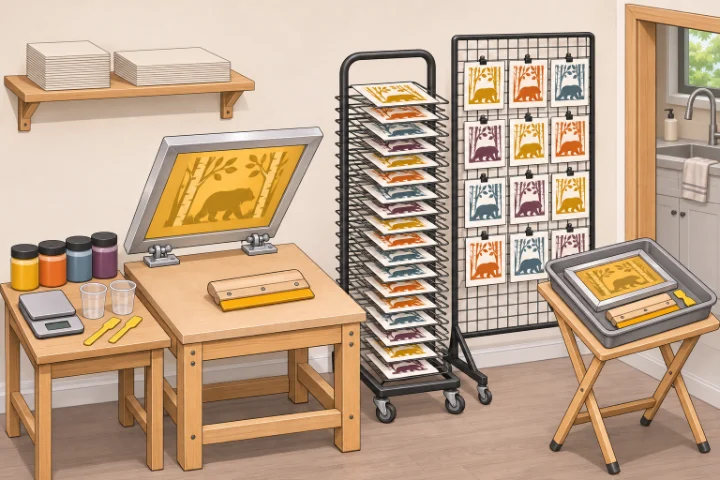
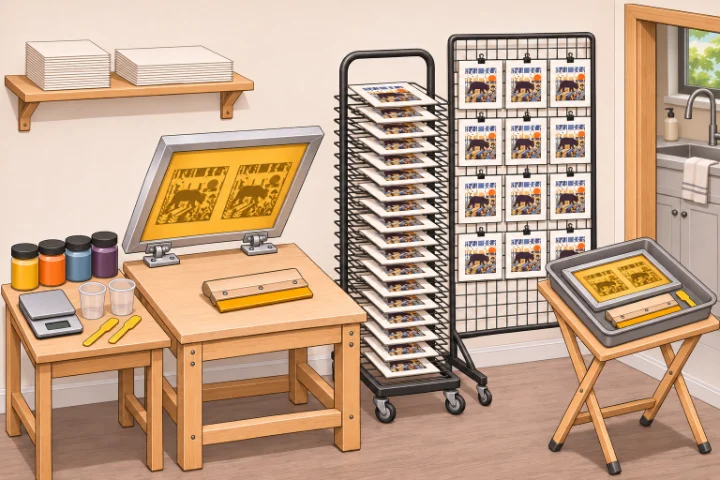
Faunaform: the manual rail's prints are square, like the real ones
The bear is a 6 x 6 in print on an 8 x 8 in sheet, but two of the new pictures drew it otherwise: in 02, Build the board, the print under the screen was a wide picture, and in 01, Lay out the room, the screens carried one wide stencil and the rack and grid wall held tall sheets in mixed single colours. Both were redrawn in their own ChatGPT chats with the six-inch bear (output/six/formats/bear-8x8.jpg) attached: 02 now has the square print on a square sheet with everything else kept, and 01 has two square stencils on each screen, as Screen A really carries them, and the same finished square print on every rack shelf and grid-wall clip (one more correction squared the grid-wall sheets). 03 and 04 were already square. Same 720x480 at WebP 0.86, and the cache-buster stays at v=2, which was never live. The fast six, readtime, and resting and states on the page pass.

diff --git a/case-study/faunaform.html b/case-study/faunaform.html
@@ -610,8 +610,10 @@
              board.png panel 4, 03 from mask.png panel 2, the version after
              both fixes (mask-take1.png left the label dashes open), 04 from
              faults.png. Each was checked against its manual page for the
-             mechanics. Scenes rail, so alt="" and the words are the page's
-             own. -->
+             mechanics, and every print and stencil is square, 6 x 6 in on
+             an 8 x 8 in sheet like the real ones (01 and 02 were first
+             drawn wide and redrawn before merging). Scenes rail, so alt=""
+             and the words are the page's own. -->
         <div class="writing-measure">
           <figure class="writing-figure writing-rail writing-rail--scenes">
             <figcaption>Four steps from the manual</figcaption>
